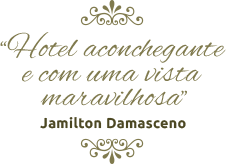
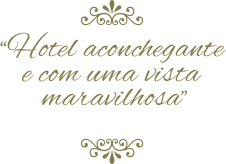
final commit
Termino da página inicial.

Changed region(s): [[0.1549, 0.7012, 0.8363, 0.7927]]

diff --git a/index.html b/index.html
@@ -10,29 +10,105 @@
 </head>
 
 <body class="home">
-    <!--inicio container-->
-    <div id="container">
+    <div id="container"><!-- inicio container-->
+		<div id="topo"><!-- inicio topo-->
+			
+			<div id="area-logo">
+				<h1 class="logo">
+					<a href="">Chalé Hotel</a>
+				</h1>
+			</div>
 
-        <!--inicio topo-->
-        <div id="topo">
-            <div id="area-logo">
-                <h1 class="logo">
-                    <a href="">Chalé Hotel</a>
-                </h1>
-            </div>
-            <div id="area-menu">
-                <div id="conteudo-menu">
-                    <div id="menu-locais">
-                        <span class="locais">Rio de Janeiro - São Paulo - Belo Horizonte</span>
-                        <a class="reserva" href="">Reservar</a>
-                        <div style="clear: both;"></div>
-                    </div>
-                </div>
-            </div>
-        </div>
-        <!--fim topo-->
-    </div>
-    <!--fim container-->
+			<div id="area-menu">
+				<div id="conteudo-menu">
+					
+					<div id="menu-locais">
+						<span class="locais">
+							Rio de Janeiro - São Paulo - Belo Horizonte 
+						</span>
+						<a class="reserva" href="">Reservar</a>
+						<div style="clear: both;"></div>
+					</div>
+
+					<div id="menu">
+						<ul id="navegacao">
+							<li><a href="">Home</a></li>
+							<li><a href="">História</a></li>
+							<li><a href="">Imprensa</a></li>
+							<li><a href="">Gastronomia</a></li>
+							<li><a href="">Contato</a></li>
+						</ul>
+
+						<img class="depoimento" src="images/depoimento.png">
+					</div>
+				</div>
+			</div>
+
+		</div><!--/ fim topo-->
+
+		<div id="area-principal">
+			<div class="conteudo">
+				<h2>
+					Lorem ipsum dolor sit amet, consectetur
+				</h2>
+					<p>
+						Lorem ipsum dolor sit amet, consectetur adipiscing elit. Nunc id congue velit, in cursus augue. Morbi vel orci mattis, condimentum arcu in, sodales ligula. Quisque sollicitudin erat vulputate libero fermentum, eu gravida velit mollis. Sed sed viverra nunc. Duis egestas sapien lectus, convallis sollicitudin leo porttitor non. Ut at massa ac tortor posuere accumsan at eu nunc. Nulla dui augue, dignissim vel diam in, tempus aliquam dui. Integer sed sem lorem. Nam a est sed sapien egestas tincidunt eget et nunc. Integer tristique nunc et nisl pharetra ultricies. Curabitur sit amet est lacus.
+					</p>
+					<p>
+						Lorem ipsum dolor sit amet, consectetur adipiscing elit. Nunc id congue velit, in cursus augue. Morbi vel orci mattis, condimentum arcu in, sodales ligula.
+					</p>
+					<p>
+						Lorem ipsum dolor sit amet, consectetur adipiscing elit. Nunc id congue velit, in cursus augue. Morbi vel orci mattis, condimentum arcu in, sodales ligula.
+					</p>
+			</div>
+		</div>
+
+		<div id="area-lateral">
+			<div class="conteudo">
+				<ul id="beneficios">
+                    <li>
+                        <a href="">
+                            <img src="./images/apartamento.jpg" width="150"
+                            alt="Apartamento">
+                            <h3>Apartamento</h3>
+                            <p>Lorem ipsum dolor sit amet,
+                            consectetur adipiscing elit.
+                            Nunc id congue velit, in cursus augue.</p>
+                        </a>
+                    </li>
+
+                    <li>
+                        <a href="">
+                            <img src="./images/restaurante.jpg" width="150"
+                            alt="Restaurante">
+                            <h3>Restaurante</h3>
+                            <p>Lorem ipsum dolor sit amet,
+                            consectetur adipiscing elit.
+                            Nunc id congue velit, in cursus augue.</p>
+                        </a>
+                    </li>
+
+                    <li>
+                        <a href="">
+                            <img src="./images/piscina.jpg" width="150"
+                            alt="Piscina">
+                            <h3>Piscina</h3>
+                            <p>Lorem ipsum dolor sit amet,
+                            consectetur adipiscing elit.
+                            Nunc id congue velit, in cursus augue.</p>
+                        </a>
+                    </li>
+                </ul>
+			</div>
+		</div>
+
+		<div id="rodape">
+			<span>
+                &copy; Copyright 2000-2020 Chalé Hotel
+            </span>
+		</div>
+
+	</div><!--/ fim container-->
 
 </body>
 

diff --git a/css/styles.css b/css/styles.css
@@ -10,7 +10,7 @@ body {
 }
 
 #container {
-    background: #ede9cc;
+    background: #ede9cc url(../images/bg-container.png) top center repeat-y;
     margin: 0 auto;
     min-width: 740px;
     max-width: 1300px;
@@ -55,7 +55,7 @@ body {
 }
 
 #conteudo-menu {
-    margin-left: 95px;
+    margin-left: 90px;
     margin-right: 15px;
     padding-top: 15px;
 }
@@ -84,4 +84,106 @@ a.reserva {
     color: #fff5b0;
     padding: 5px 10px;
     float: right;
+}
+
+/* Barra de navegação vertical
+*/
+#menu {
+	margin-top: 15px;
+}
+
+ul {
+	list-style: none;
+}
+
+ul#navegacao {
+	float: left;
+}
+
+ul#navegacao a {
+	text-transform: uppercase;
+	font-size: 0.8em;
+	padding: 5px;
+	color: #6e672c;
+	line-height: 30px;
+}
+
+ul#navegacao a:hover {
+	background: #fdf6be;
+}
+
+.depoimento {
+	width: 226px;
+	height: 164px;
+	float: right;
+}
+
+/* Área de conteúdos
+************************/
+#area-principal {
+	float: left;
+	width: 50%;
+	background: url(../images/bg-area-principal.png) top left repeat-x;
+	padding: 15px 0px;
+}
+
+#area-lateral {
+	float: right;
+	width: 50%;
+	background: url(../images/bg-area-lateral.png) top left repeat-x;
+	padding: 20px 0px;
+}
+
+.conteudo {
+	margin: 0 auto;
+	width: 90%;
+}
+
+#rodape {
+    clear: both;
+    padding: 16px;
+    background: #fff url(../images/bg-rodape.png) repeat-x top;
+    color: #7d7640;
+}
+
+/* Área de conteúdos
+************************/
+h2 {
+    color: #7d7640;
+    font-size: 1.1em;
+    padding: 5px 0px;
+}
+
+P {
+    font-size: 1em;
+    margin-bottom: 10px;
+}
+
+/* Área de conteúdos
+************************/
+#beneficios li {
+    padding: 8px;
+    border-bottom: 1px solid solid #f3efcb;
+    height: 6em;
+}
+
+#beneficios li a img {
+    float: left;
+    margin-right: 8px;
+}
+
+#beneficios li a p{
+    color: #000;
+    font-size: 0.9em
+}
+
+#beneficios li a h3{
+    font-size: 1.2em;
+    color: #615b2d;
+    padding: 5px 0;
+    background: url(../images/ornamento.png) no-repeat center right;
+}
+#beneficios li:hover {
+    background: #f6f3d6;
+    cursor: pointer
 }
